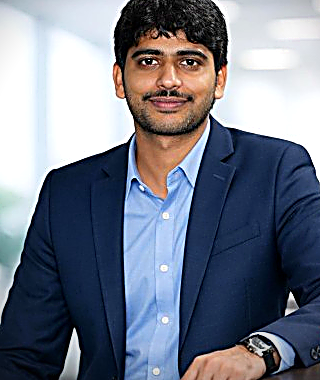
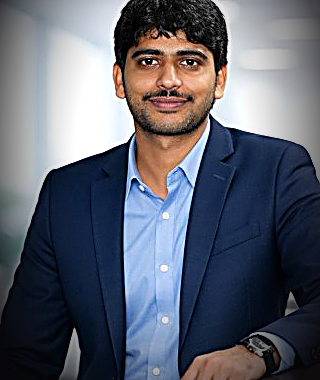
Tighten anchor photo mask and update photo crop

diff --git a/src/components/NewsStage.css b/src/components/NewsStage.css
@@ -116,8 +116,8 @@
   aspect-ratio: 320 / 380;
   overflow: hidden;
   background: #0a0a0c;
-  -webkit-mask-image: radial-gradient(ellipse 88% 132% at 50% 82%, #000 56%, transparent 100%);
-  mask-image: radial-gradient(ellipse 88% 132% at 50% 82%, #000 56%, transparent 100%);
+  -webkit-mask-image: radial-gradient(ellipse 55% 80% at 50% 80%, #000 38%, transparent 94%);
+  mask-image: radial-gradient(ellipse 55% 80% at 50% 80%, #000 38%, transparent 94%);
   filter: drop-shadow(0 1.2cqw 2.4cqw rgba(0, 0, 0, 0.6));
   animation: anchorBreathe 7s ease-in-out infinite;
 }
